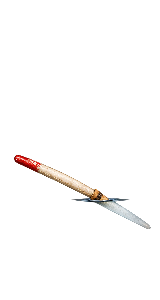
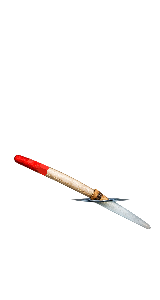
Поплавки: ещё крупнее (0.36), красный кончик ярче и длиннее — ретушь партии 14 (Директор 08.11, 20:14) [skip ci]
tools/retouch/fishing_float_tip.py в таблице retouch_art.py (оригиналы assets/incoming не тронуты); кадр — после
переключения на main.

Claude-Session: https://claude.ai/code/session_01Qvdjz1zmfr41cRSvLxvjeK

Changed region(s): [[0.0938, 0.51, 0.3125, 0.6]]

diff --git a/tools/retouch/fishing_float_tip.py b/tools/retouch/fishing_float_tip.py
@@ -1,0 +1,59 @@
+"""Поплавок (партия 14, перо с красной верхушкой): красный кончик ярче и чуть длиннее (Директор 08.11, 20:14: «красный
+кончик сделать ярче, а можно и чуть больше тоже»). Красное — пиксели, где R заметно больше G и B; их цвет насыщается
+и светлеет (R ×1.18, G и B ×0.72, альфа как была). Кончик удлиняется: непрозрачные пиксели стержня в полосе TIP_GROW px от красного
+(расширение маски) берут цвет ближайшего пикселя кончика — его тень и блик продолжаются вниз по стержню. Остальное (стержень, пробка, вода, тень) не трогается."""
+from __future__ import annotations
+
+import numpy as np
+from PIL import Image
+
+TIP_GROW = 9          # px холста 300 px высотой (на экране при масштабе 0.36 — ≈ 3 px)
+BRIGHT = (1.18, 0.72, 0.72)
+
+
+def _dilate(mask: np.ndarray, r: int) -> np.ndarray:
+    out = mask.copy()
+    h, w = mask.shape
+    for dy in range(-r, r + 1):
+        for dx in range(-r, r + 1):
+            if dx * dx + dy * dy > r * r:
+                continue
+            sh = np.zeros_like(mask)
+            ys, yd = (slice(0, h - dy), slice(dy, h)) if dy >= 0 else (slice(-dy, h), slice(0, h + dy))
+            xs, xd = (slice(0, w - dx), slice(dx, w)) if dx >= 0 else (slice(-dx, w), slice(0, w + dx))
+            sh[yd, xd] = mask[ys, xs]
+            out |= sh
+    return out
+
+
+def retouch(im: Image.Image) -> Image.Image:
+    a = np.array(im.convert("RGBA")).astype(np.float32)
+    r, g, b, al = a[..., 0], a[..., 1], a[..., 2], a[..., 3]
+    red = (al > 60) & (r > 110) & (g < 110) & (b < 110) & (r - g > 60) & (r - b > 60)
+    # the tip only: the red component holding the topmost red pixel (the cork's dark wood is reddish too)
+    top = np.nonzero(red)
+    seed = np.zeros_like(red)
+    seed[top[0].min(), top[1][np.argmin(top[0])]] = True
+    comp = seed
+    while True:
+        nxt = _dilate(comp, 1) & red
+        if nxt.sum() == comp.sum():
+            break
+        comp = nxt
+    red = comp
+    lum = 0.299 * r + 0.587 * g + 0.114 * b
+    grow = _dilate(red, TIP_GROW) & ~red & (al > 200) & (lum > 60)
+    # the stem below the tip only — not the water ring or the shadow (they sit far below the tip)
+    ys = np.nonzero(red)[0]
+    grow &= (np.arange(a.shape[0])[:, None] <= ys.max() + TIP_GROW + 2)
+    # each new pixel takes the colour of the nearest tip pixel — the tip's own shading continues down the stem
+    ry, rx = np.nonzero(red)
+    gy, gx = np.nonzero(grow)
+    for y, x in zip(gy, gx):
+        k = np.argmin((ry - y) ** 2 + (rx - x) ** 2)
+        a[y, x, :3] = a[ry[k], rx[k], :3]
+    red2 = red | grow
+    a[..., 0][red2] = np.clip(a[..., 0][red2] * BRIGHT[0], 0, 255)
+    a[..., 1][red2] = np.clip(a[..., 1][red2] * BRIGHT[1], 0, 255)
+    a[..., 2][red2] = np.clip(a[..., 2][red2] * BRIGHT[2], 0, 255)
+    return Image.fromarray(a.clip(0, 255).astype(np.uint8), "RGBA")

diff --git a/tools/retouch_art.py b/tools/retouch_art.py
@@ -27,6 +27,9 @@ TABLE = {
     "game/assets/rooms/Z3/state_plate_ring_dusk.png": ("assets/incoming/Z3_state_plate_rope_dusk.png", "tools/retouch/Z3_plate_no_rope.py"),
     "game/assets/ui/map/zarechye_plan.png": ("assets/incoming/map/zarechye_plan.png", "tools/retouch/zarechye_plan.py"),
     "game/assets/ui/map/zarechye_plan_rope.png": ("assets/incoming/map/zarechye_plan.png", "tools/retouch/zarechye_plan_rope.py"),
+    # Директор 08.11, 20:14: красный кончик поплавка ярче и чуть длиннее
+    "game/assets/mechanics/fishing/float_on_water.png": ("assets/incoming/float_on_water.png", "tools/retouch/fishing_float_tip.py"),
+    "game/assets/mechanics/fishing/float_tilted.png": ("assets/incoming/float_tilted.png", "tools/retouch/fishing_float_tip.py"),
 }
 
 

diff --git a/Docs/ASSET_PROVENANCE.md b/Docs/ASSET_PROVENANCE.md
@@ -185,7 +185,8 @@ H1_state_bench_wide_shelf_v2 и H1_state_bench_wide_scarf_v2 (та же широ
 Заказ `Docs/art_pack_14/00_ТЕКСТ_для_ChatGPT.txt`, архив `Dom_propavshih_dorog_part14_2026-11-01.zip` (README, prompts.json,
 rope_prompts.txt, spoon_prompt.txt, validation.json, OVERVIEW — `assets/incoming/_meta_p14/`). Права — как у прочего арта ChatGPT
 проекта. Файлы: perch_caught, perch_lying (окунь), float_on_water, float_tilted (поплавок из пера) — копии в
-`game/assets/mechanics/fishing/` (fishing_panel.gd); cup_tikhon, cup_agata, spoon — `game/assets/mechanics/rhythm/` (rhythm_panel.gd);
+`game/assets/mechanics/fishing/` (fishing_panel.gd; поплавки с 08.11 — ретушь `tools/retouch/fishing_float_tip.py` через
+`tools/retouch_art.py`: красный кончик ярче и на 9 px длиннее, Директор 20:14; оригиналы в incoming не менялись); cup_tikhon, cup_agata, spoon — `game/assets/mechanics/rhythm/` (rhythm_panel.gd);
 R2_fg_rope_v3 (канат сквозь кольцо, правка R2_fg_rope_v2 только в [1080,580,1320,780)) — `game/assets/rooms/R2/fg_rope.png`
 (art_source в R2.json), маска железа кольца `fg_rope_iron_mask.png` строится из него `tools/make_ring_mask.py`.
 
